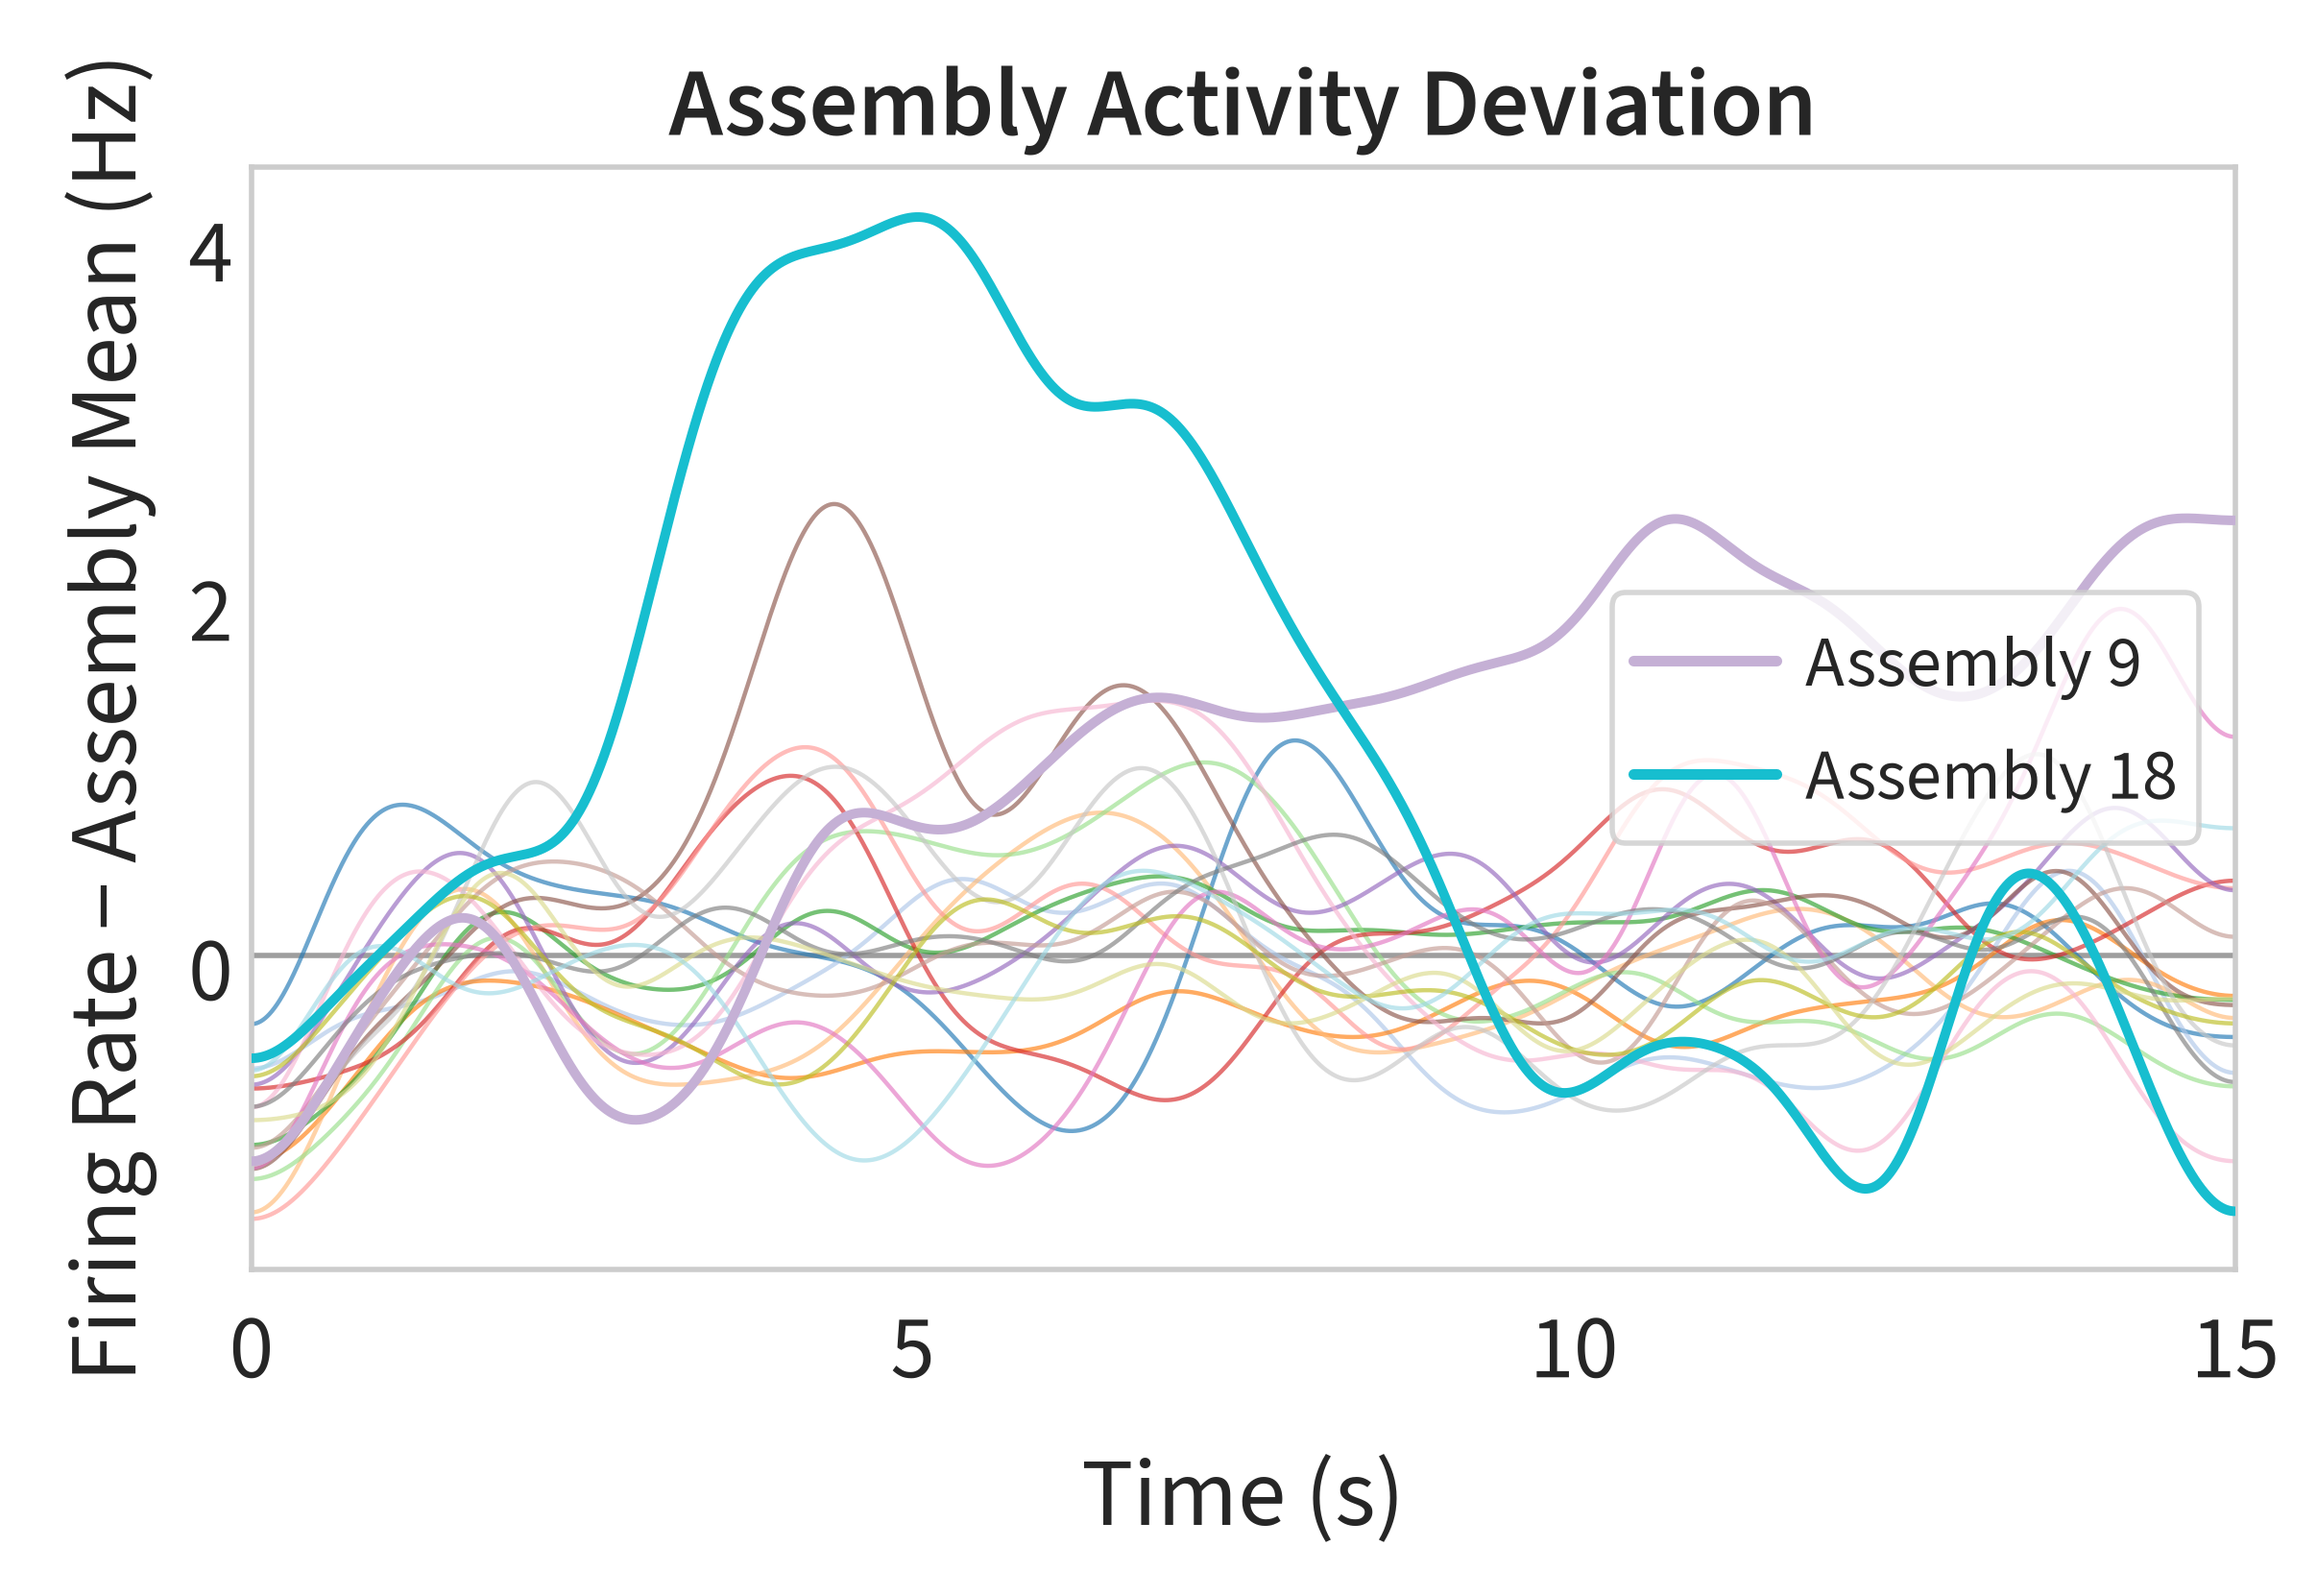
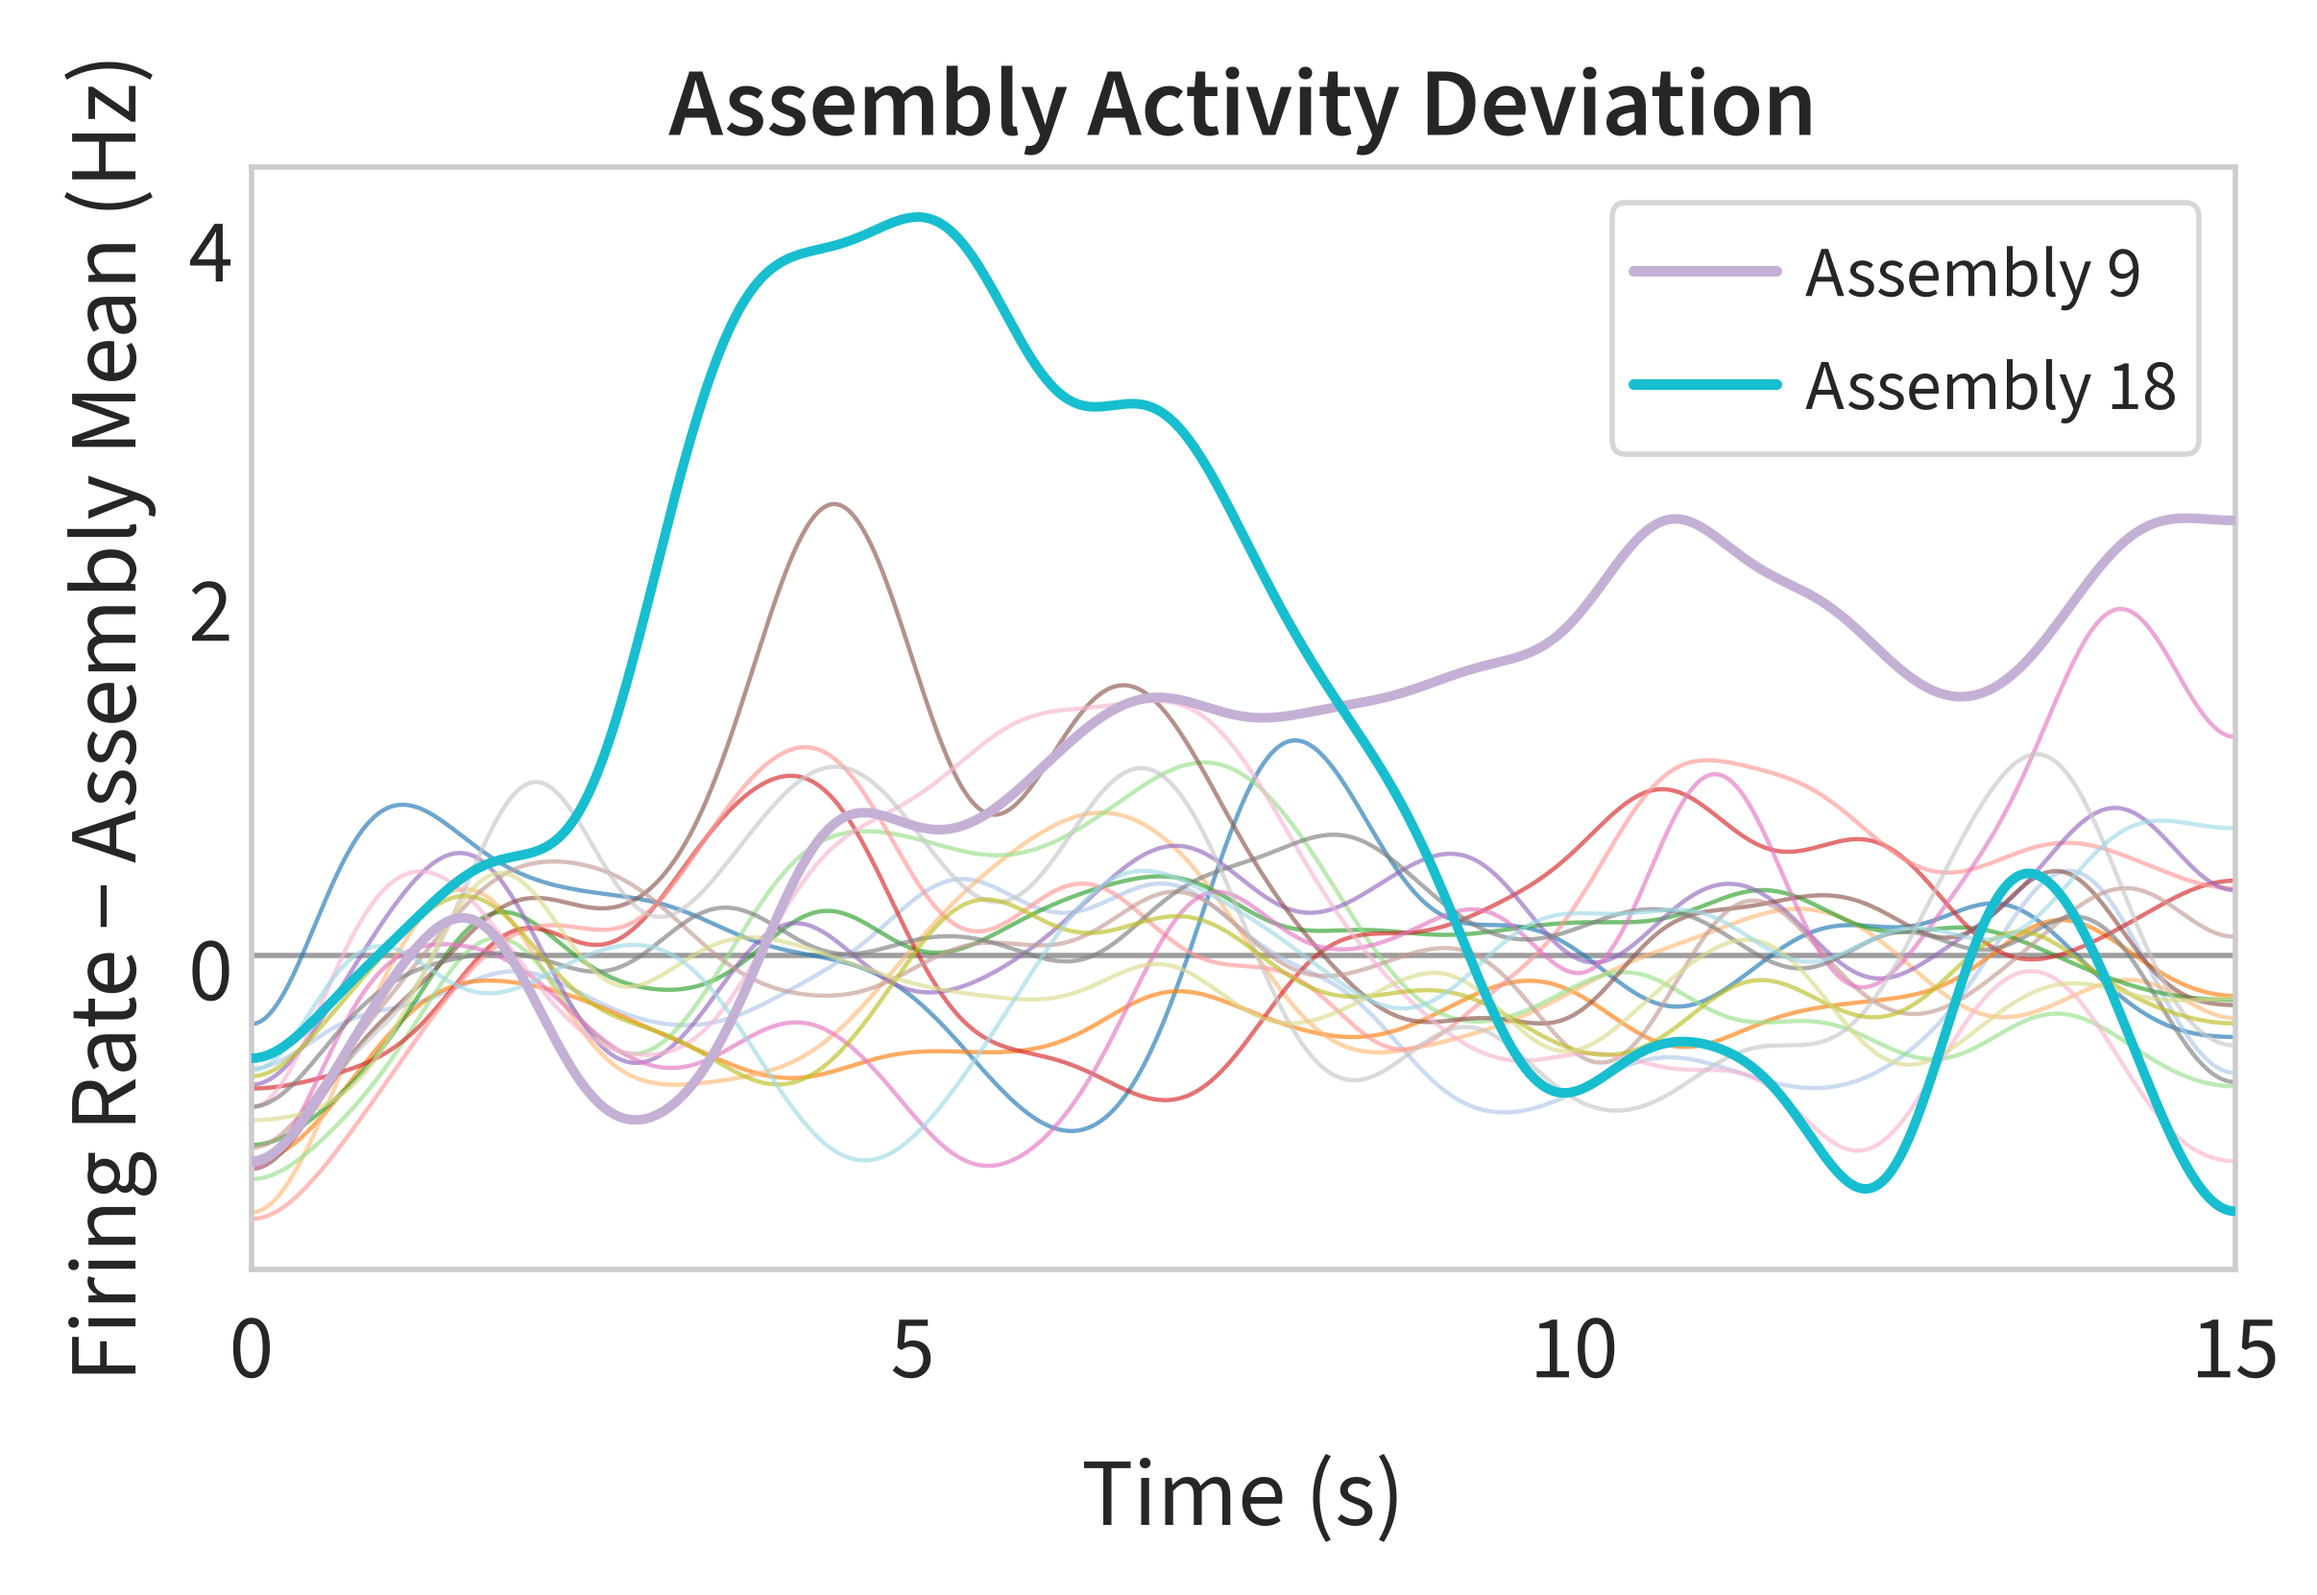
:art: Drive bars with whiskers, aligned trace legends, 0-2 s window

Changed region(s): [[0.6838, 0.3685, 0.9635, 0.5527], [0.6838, 0.2149, 0.9635, 0.307], [0.6838, 0.1228, 0.9635, 0.1842]]

diff --git a/fig00-teacher-activity/figures.py b/fig00-teacher-activity/figures.py
@@ -60,6 +60,8 @@ FIGURE = "fig00"
 #: and a cell that fires in bursts leaves most of a fixed window empty -- so the window is
 #: the one whose spikes are spread over the most sub-bins (ties going to the most spikes).
 TRACE_WINDOW_S = 2.0
+#: Ticks every half second across the two-second window.
+TRACE_TICK_S = 0.5
 TRACE_WINDOW_BIN_S = 0.5
 #: Assembly panels tick every 5 s, so the 15 s trial ends on a tick.
 ASSEMBLY_TICK_S = 5.0
@@ -133,6 +135,21 @@ def thick_legend(ax, **kwargs):
 # ==========
 
 
+def trace_legend(ax):
+    """The trace panels' legend: same anchor and padding on every row, so they align."""
+    return thick_legend(
+        ax,
+        loc="upper left",
+        bbox_to_anchor=(1.02, 1.0),
+        frameon=True,
+        fontsize=TICK_SIZE * 0.85,
+        borderpad=0.35,
+        labelspacing=0.3,
+        handletextpad=0.5,
+        handlelength=1.6,
+    )
+
+
 def trace_window_start(spike_times, duration_s):
     """The start of the TRACE_WINDOW_S window whose spikes are the most spread out.
 
@@ -170,7 +187,9 @@ def neuron_traces(data):
     """
     start = trace_window_start(data["spike_time_s"], float(data["time_s"][-1]))
     window = (data["time_s"] >= start) & (data["time_s"] <= start + TRACE_WINDOW_S)
-    time_s = data["time_s"][window]
+    # The window is chosen for spike density, then re-zeroed: the axis reads 0 to 2 s
+    # rather than 1.5 to 3.5, which looked like an arbitrary slice of a longer recording.
+    time_s = data["time_s"][window] - start
     synapses = [str(name) for name in data["synapse"]]
     current = -data["current_pa"][window]
     leak = -data["leak_current_pa"][window]
@@ -187,7 +206,7 @@ def neuron_traces(data):
         rasterized=True,
     )
     spikes = data["spike_time_s"]
-    spikes = spikes[(spikes >= start) & (spikes <= start + TRACE_WINDOW_S)]
+    spikes = spikes[(spikes >= start) & (spikes <= start + TRACE_WINDOW_S)] - start
     if spikes.size:
         axes[0].vlines(
             spikes, threshold, 0.0, color=INK, linewidth=0.6, alpha=0.9, zorder=1
@@ -209,13 +228,7 @@ def neuron_traces(data):
         label=f"Rest ({float(data['rest_mv']):.0f} mV)",
     )
     axes[0].set_ylabel("Membrane\nPotential (mV)")
-    thick_legend(
-        axes[0],
-        loc="upper left",
-        bbox_to_anchor=(1.01, 1.0),
-        frameon=True,
-        fontsize=TICK_SIZE * 0.85,
-    )
+    trace_legend(axes[0])
     axes[0].set_title(f"Neuron {int(data['neuron_id'])} ({data['cell_type']!s})", pad=6)
 
     traces = []
@@ -235,15 +248,9 @@ def neuron_traces(data):
         label="Leak",
         rasterized=True,
     )
-    axes[1].set_ylabel("Input Current (pA)\npositive = depolarising")
+    axes[1].set_ylabel("Input Current (pA)")
     axes[1].set_ylim(*symmetric_limit(np.concatenate([*traces, leak])))
-    thick_legend(
-        axes[1],
-        loc="upper left",
-        bbox_to_anchor=(1.01, 1.0),
-        frameon=True,
-        fontsize=TICK_SIZE * 0.85,
-    )
+    trace_legend(axes[1])
 
     for name in synapses:
         color, linestyle = SYNAPSE_STYLES[name]
@@ -258,17 +265,12 @@ def neuron_traces(data):
         )
     axes[2].set_ylabel("Conductance (nS)")
     axes[2].set_xlabel("Time (s)")
-    axes[2].set_xlim(time_s[0], time_s[-1])
+    axes[2].set_xlim(0, TRACE_WINDOW_S)
+    axes[2].xaxis.set_major_locator(MultipleLocator(TRACE_TICK_S))
     # The inhibitory conductance is an order of magnitude above the rest; the axis is cut
     # at the 98th percentile of everything, as the library's dashboard cuts it.
     axes[2].set_ylim(0, nice_limit(np.percentile(conductance, 98)))
-    thick_legend(
-        axes[2],
-        loc="upper left",
-        bbox_to_anchor=(1.01, 1.0),
-        frameon=True,
-        fontsize=TICK_SIZE * 0.85,
-    )
+    trace_legend(axes[2])
     fig.tight_layout()
     return fig
 
@@ -280,10 +282,11 @@ def ou_trajectories(data):
         "mixing_weight",
         "Mixing Weight",
         "Input Mixing Coefficient",
+        legend_loc="center right",  # the top right is where a dominant input sits at ~1.0
     )
 
 
-def assembly_series(data, key, y_label, title, label="Input"):
+def assembly_series(data, key, y_label, title, label="Input", legend_loc="upper right"):
     """One line per assembly, in the shared assembly colours.
 
     The dominant odourant's own line is drawn heavier in both assembly panels, so the eye
@@ -306,9 +309,7 @@ def assembly_series(data, key, y_label, title, label="Input"):
         )
     thick_legend(
         ax,
-        # Centre right: the top right is where a dominant input sits at ~1.0, and the top
-        # left is where the early competition happens.
-        loc="center right",
+        loc=legend_loc,
         frameon=True,
         fontsize=TICK_SIZE * 0.8,
         borderpad=0.3,
@@ -360,30 +361,31 @@ def assembly_rates(data):
 def synaptic_drive(drive):
     """(d) The share of excitatory synaptic drive each pathway delivers, across trials.
 
-    A box per pathway over the 50 trials (2026-09-23), rather than one bar for the whole
-    dataset: the spread is the point, and a bar hid it.
+    A bar per pathway with a whisker for the spread over the 50 trials. The whisker is
+    the SD, and it is worth having: it shows the 2.4:1 split is not one trial's accident.
+    (Unlike the performance panels, where three seeds are shown as points, there are 50
+    trials here and the points would be a smear.)
     """
     colors = {label: color for label, color, _ in PATHWAYS}
     pathways = list(dict.fromkeys(drive["pathway"]))
+    means = [
+        drive.loc[drive["pathway"] == p, "drive_fraction"].mean() for p in pathways
+    ]
+    spreads = [
+        drive.loc[drive["pathway"] == p, "drive_fraction"].std() for p in pathways
+    ]
     fig, ax = plt.subplots(figsize=SINGLE)
-    boxes = ax.boxplot(
-        [drive.loc[drive["pathway"] == name, "drive_fraction"] for name in pathways],
-        tick_labels=pathways,
-        widths=0.5,
-        patch_artist=True,
-        medianprops={"color": INK, "linewidth": 1.4},
-        whiskerprops={"color": INK},
-        capprops={"color": INK},
-        flierprops={
-            "marker": "o",
-            "markersize": 3,
-            "markerfacecolor": REFERENCE_GREY,
-            "markeredgecolor": "none",
-        },
+    ax.bar(
+        pathways,
+        means,
+        width=0.5,
+        color=[colors.get(name, REFERENCE_GREY) for name in pathways],
+        edgecolor="white",
+        linewidth=0.5,
     )
-    for patch, name in zip(boxes["boxes"], pathways, strict=True):
-        patch.set_facecolor(colors.get(name, REFERENCE_GREY))
-        patch.set_edgecolor(INK)
+    ax.errorbar(
+        pathways, means, yerr=spreads, fmt="none", ecolor=INK, capsize=5, linewidth=1.2
+    )
     ax.set_ylabel("Fraction of Excitatory Synaptic Drive")
     ax.set_ylim(0, 1)
     ax.set_title("Excitatory Synaptic Drive by Pathway")

diff --git a/fig00-teacher-activity/README.md b/fig00-teacher-activity/README.md
@@ -71,8 +71,8 @@ dynamics look like, and how high-dimensional the result is.
 |---|---|---|
 | **(a)** | `ou-trajectories` | the Ornstein-Uhlenbeck mixing coefficient of each of the 20 inputs over one trial, the two leaders drawn heavy |
 | **(b)** | `assembly-rates` | each assembly's excitatory population rate over the same trial, **against its own mean across all 50 trials**, Gaussian σ = 500 ms |
-| **(c)** | `neuron-traces` | one excitatory neuron: membrane potential with its spikes, input currents, and every synapse type's conductance on one shared axes |
-| **(d)** | `synaptic-drive` | feedforward vs recurrent-excitatory share of excitatory drive, a box per pathway over the 50 trials (median ratio 2.4) |
+| **(c)** | `neuron-traces` | one excitatory neuron: membrane potential with its spikes, input currents, and every synapse type's conductance on one shared axes, over a 2 s window chosen for spike density and re-zeroed |
+| **(d)** | `synaptic-drive` | feedforward vs recurrent-excitatory share of excitatory drive, mean over the 50 trials with an SD whisker — **0.29 ± 0.02 against 0.71 ± 0.02**, a 2.4:1 split that barely varies between trials |
 | **(e)** | `variance-spectrum` | variance fraction per component, first 100 components, linear axes |
 
 These follow the library's own dashboards (`create_activity_dashboard`,
